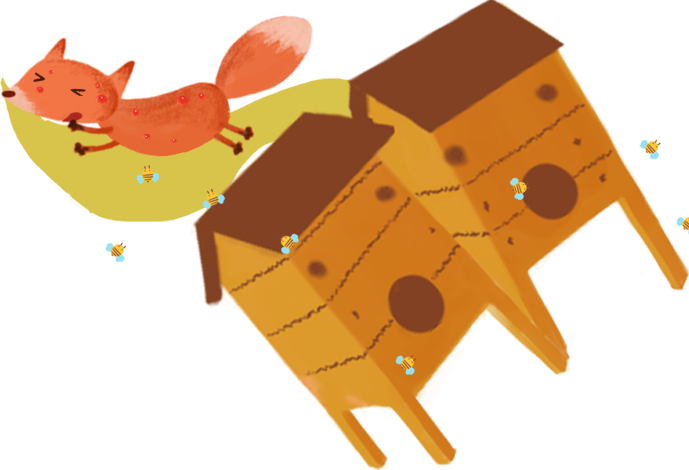
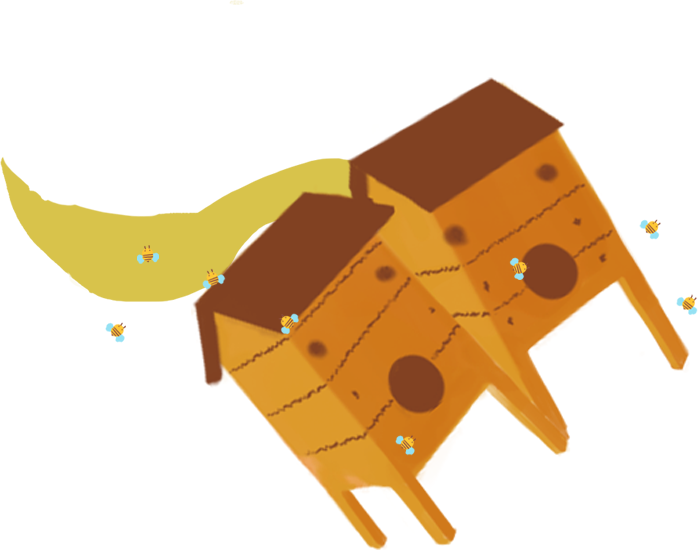
ninth commit

diff --git a/css/index.css b/css/index.css
@@ -122,10 +122,40 @@ img{
     0% {
         background-image: url(../images/chicken1.png);
     }
-    30% {
+    5% {
         background-image: url(../images/chicken2.png);
     }
+    10% {
+        background-image: url(../images/chicken1.png);
+    }
+    15% {
+        background-image: url(../images/chicken2.png);
+    }
+    20% {
+        background-image: url(../images/chicken1.png);
+    }
+    25% {
+        background-image: url(../images/chicken2.png);
+    }
+    30% {
+        background-image: url(../images/chicken1.png);
+    }
     35% {
+        background-image: url(../images/chicken2.png);
+    }
+    40% {
+        background-image: url(../images/chicken1.png);
+    }
+    45% {
+        background-image: url(../images/chicken2.png);
+    }
+    50% {
+        background-image: url(../images/chicken1.png);
+    }
+    55% {
+        background-image: url(../images/chicken2.png);
+    }
+    60% {
         background-image: url(../images/chicken1.png);
     }
     65% {
@@ -134,8 +164,23 @@ img{
     70% {
         background-image: url(../images/chicken1.png);
     }
-    100% {
+    75% {
         background-image: url(../images/chicken2.png);
+    }
+    80% {
+          background-image: url(../images/chicken1.png);
+    }
+    85% {
+        background-image: url(../images/chicken2.png);
+    }
+    90% {
+        background-image: url(../images/chicken1.png);
+    }
+    95% {
+        background-image: url(../images/chicken2.png);
+    }
+    100% {
+        background-image: url(../images/chicken1.png);
     }
 }
 
@@ -424,11 +469,11 @@ img{
 
 }
 .page04 img:nth-child(2){
-    width: 8.1rem;
-    height:5rem;
+    width:9.9rem;
+    height: 37%;
     position: absolute;
-    top:13.2rem;
-    left:4.7rem;
+    left:3.3rem;
+    top:35%;
     z-index: 4;
 }
 .page04 img:nth-child(1){
@@ -440,7 +485,7 @@ img{
     display: none;
 }
 .page04 img:nth-child(3){
-    width:9.5rem;
+    width:9.9rem;
     height: 37%;
     position: absolute;
     left:3.3rem;
@@ -449,11 +494,11 @@ img{
 
 }
 .page04 img:nth-child(5){
-    width: 5.3rem;
-    height: 3.2rem;
+    width:9.9rem;
+    height: 37%;
     position: absolute;
-    top:13.8rem;
-    left:3.7rem;
+    left:3.3rem;
+    top:35%;
     z-index: 2;
 }
 
@@ -502,6 +547,14 @@ img{
     left:50%;
     margin-left:-2.75rem;
 }
+.page04 img:nth-child(12){
+    width: 8rem;
+    height: 5rem;
+    position: absolute;
+    right:-4.7rem;
+    top:12rem;
+    display: none;
+}
 .page04fox{
     width: 8rem;
     height: 5rem;
@@ -519,41 +572,59 @@ img{
     0% {
         background-image: url(../images/foxLeft01.png);
     }
-    6% {
-        background-image: url(../images/foxLeft01.png);
-    }
-    12% {
+    5% {
         background-image: url(../images/foxLeft02.png);
     }
-    18% {
-        background-image: url(../images/foxLeft02.png);
-    }
-    24% {
+    10% {
         background-image: url(../images/foxLeft03.png);
+    }
+    15% {
+        background-image: url(../images/foxLeft04.png);
+    }
+    20% {
+        background-image: url(../images/foxLeft05.png);
+    }
+    25% {
+        background-image: url(../images/foxLeft04.png);
     }
     30% {
         background-image: url(../images/foxLeft03.png);
     }
-    36% {
-        background-image: url(../images/foxLeft04.png);
+    35% {
+        background-image: url(../images/foxLeft02.png);
     }
-    42% {
-        background-image: url(../images/foxLeft04.png);
+    40% {
+        background-image: url(../images/foxLeft01.png);
     }
-    48% {
-        background-image: url(../images/foxLeft05.png);
+    45% {
+        background-image: url(../images/foxLeft02.png);
     }
-    60% {
-        background-image: url(../images/foxLeft04.png);
-    }
-    72% {
+    50% {
         background-image: url(../images/foxLeft03.png);
     }
-    84% {
+    65% {
+        background-image: url(../images/foxLeft04.png);
+    }
+    70% {
+        background-image: url(../images/foxLeft05.png);
+    }
+    75% {
+        background-image: url(../images/foxLeft04.png);
+    }
+    80% {
+        background-image: url(../images/foxLeft03.png);
+    }
+    85% {
+        background-image: url(../images/foxLeft02.png);
+    }
+    90% {
+        background-image: url(../images/foxLeft01.png);
+    }
+    95% {
         background-image: url(../images/foxLeft02.png);
     }
     100% {
-        background-image: url(../images/foxLeft01.png);
+        background-image: url(../images/foxLeft03.png);
     }
 }
 

diff --git a/js/index.js b/js/index.js
@@ -71,7 +71,7 @@ function run() {
     audio1.play()
     $('.run').hide();
     $('.chicken').addClass('run_chicken');
-    $('.chicken').animate({right:'-60px',top:'30px'},2000,function () {
+    $('.chicken').animate({right:'-60px',top:'30px'},2500,function () {
         $('.fox').animate({left:'500px',bottom:'800px'},3000,function () {
             $('.BtnLeft').show();
             $('.BtnRight').show();
@@ -246,11 +246,13 @@ function toP4() {
         $('.dialog1').css({"display":"block","z-Index":"2"});
         $('.page04fox').removeClass('run_fox');
         $('.page04fox').css({ "right":"-4.7rem","top":"12rem"})
+        $('.fengfangfox2').hide();
     },1000)
 }
 
 //page4
 function p4wenhao() {
+    $('.fengfangfox2').hide();
     setTimeout(function () {
         $('.wenhao').hide();
     },0)
@@ -271,6 +273,9 @@ function fengfang() {
     $('.dialog1').hide();
     $('.dialog8').hide();
     $('.fengfangfox').show();
+    $('.fengfangfox2').show().animate({"right":"-1.5rem"},700,function () {
+
+    }).animate({"right":"-4.7rem"},700);
     $('.dialog7').css({"display":"block"});
     audio1.src = "audio/S6the fox bumped into the beehive.mp3";
     audio1.play();
@@ -290,7 +295,7 @@ function leaveout() {
     audio1.src = "audio/S7the fox was under the beehive.mp3";
     audio1.play();
     $('.page04fox').fadeIn('slow',function () {
-        $('.page04fox').animate({"right":"16rem","top":"15rem"},2000)
+        $('.page04fox').animate({"right":"3.3rem","top":"15rem"},1500).removeClass('run_Left_fox');
     })
     setTimeout(function () {
         $('.wenhao').show();

diff --git a/index.html b/index.html
@@ -109,6 +109,7 @@
                     <img src="images/BtnLeft.png" alt="" onclick="backP3()">
                     <img src="images/BtnRight.png" alt="" onclick="toEnd()">
                     <img src="images/BtnWenhao.png" alt="" onclick="p4wenhao()" class="wenhao">
+                    <img src="images/fengfangfox2.png" alt="" class="fengfangfox2">
                 </li>
             </ul>
         </div>
